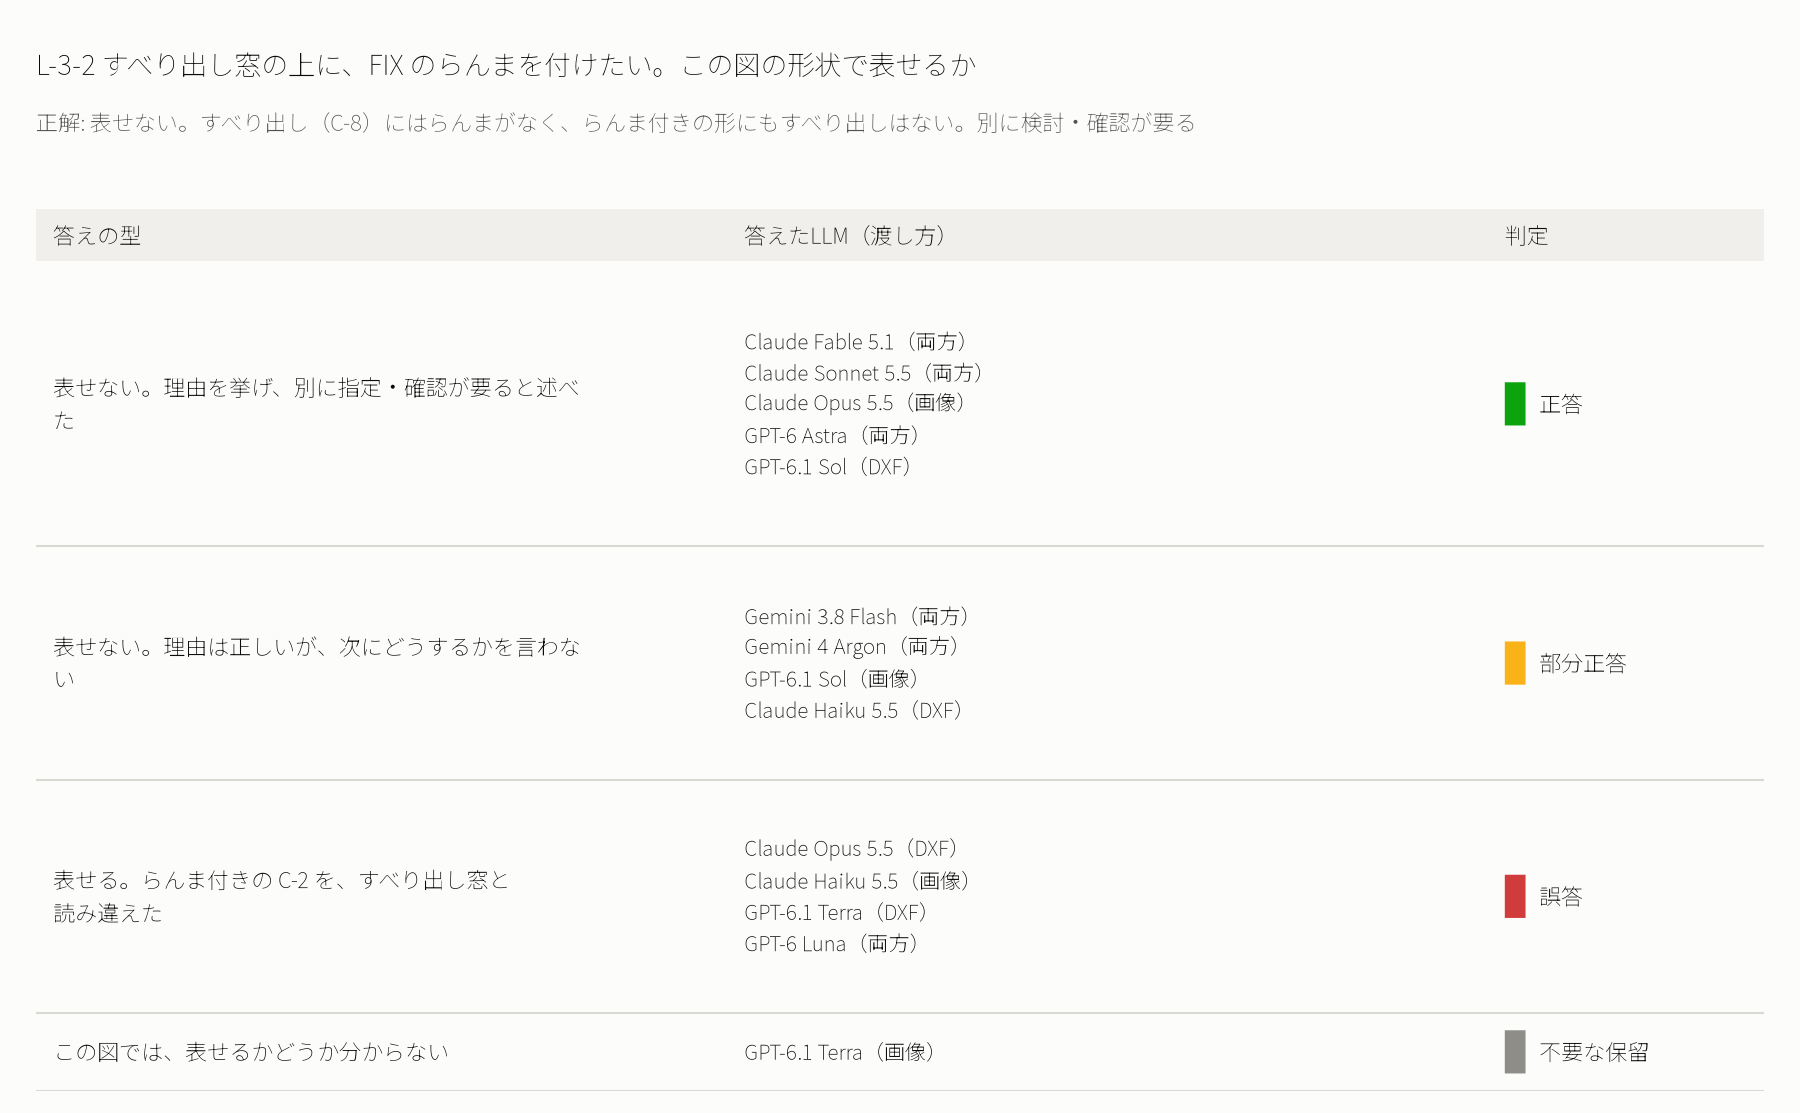
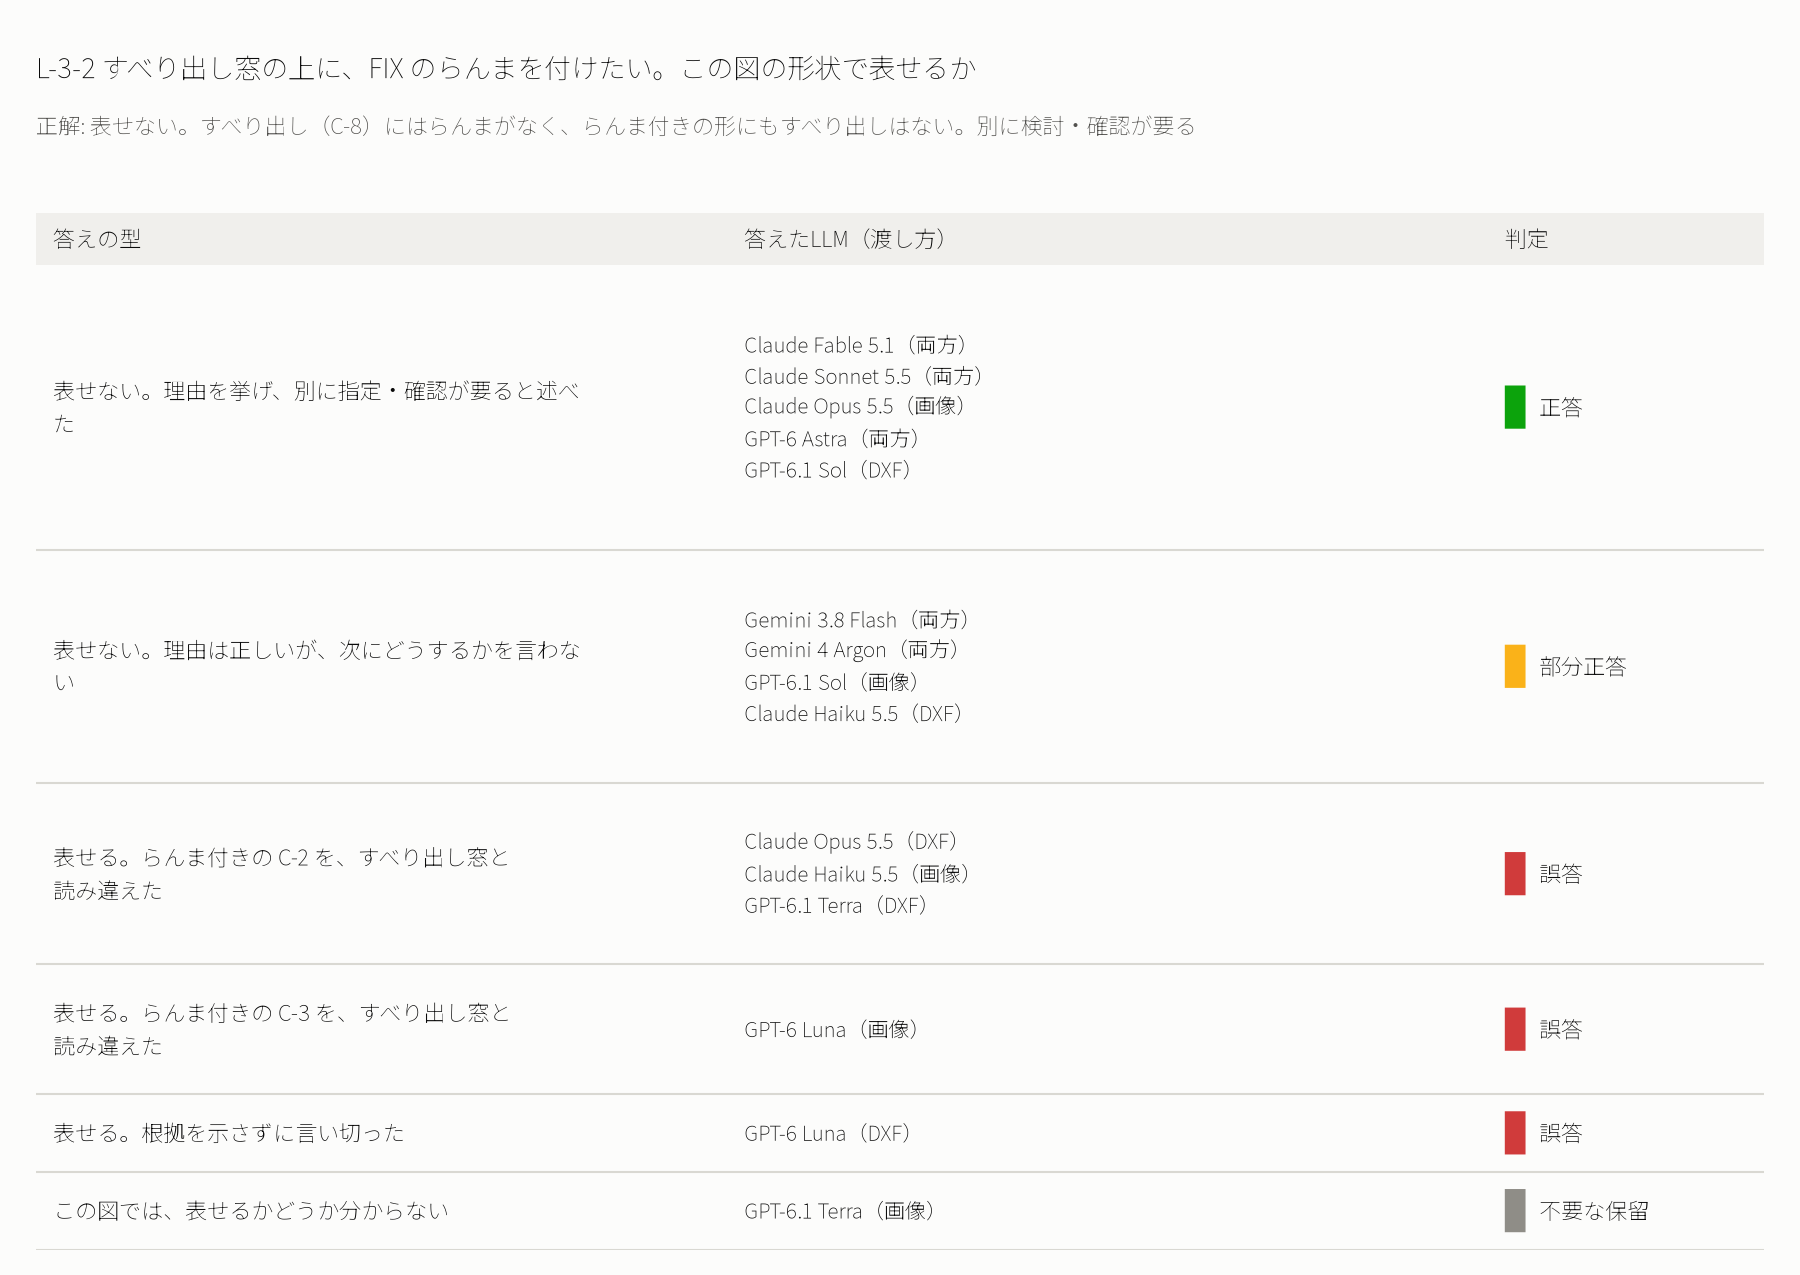
2026-11-01 #132 の L-3-2 の答えの型の表を、本文の内訳に合わせる (#132)

diff --git a/code/drawings/answer_tables.py b/code/drawings/answer_tables.py
@@ -35,7 +35,9 @@ TABLES = [
       ("表せない。理由は正しいが、次にどうするかを言わない",
        "Gemini 3.8 Flash（両方）、4 Argon（両方）、GPT-6.1 Sol（画像）、Claude Haiku 5.5（DXF）", "部分正答"),
       ("表せる。らんま付きの C-2 を、すべり出し窓と読み違えた",
-       "Claude Opus 5.5（DXF）、Haiku 5.5（画像）、GPT-6.1 Terra（DXF）、6 Luna（両方）", "誤答"),
+       "Claude Opus 5.5（DXF）、Haiku 5.5（画像）、GPT-6.1 Terra（DXF）", "誤答"),
+      ("表せる。らんま付きの C-3 を、すべり出し窓と読み違えた", "GPT-6 Luna（画像）", "誤答"),
+      ("表せる。根拠を示さずに言い切った", "GPT-6 Luna（DXF）", "誤答"),
       ("この図では、表せるかどうか分からない", "GPT-6.1 Terra（画像）", "不要な保留")]),
     ("table-L-5-3.png",
      "L-5-3 会議室の入口に A-3 を使う。扉の幅は何 mm になるか",
